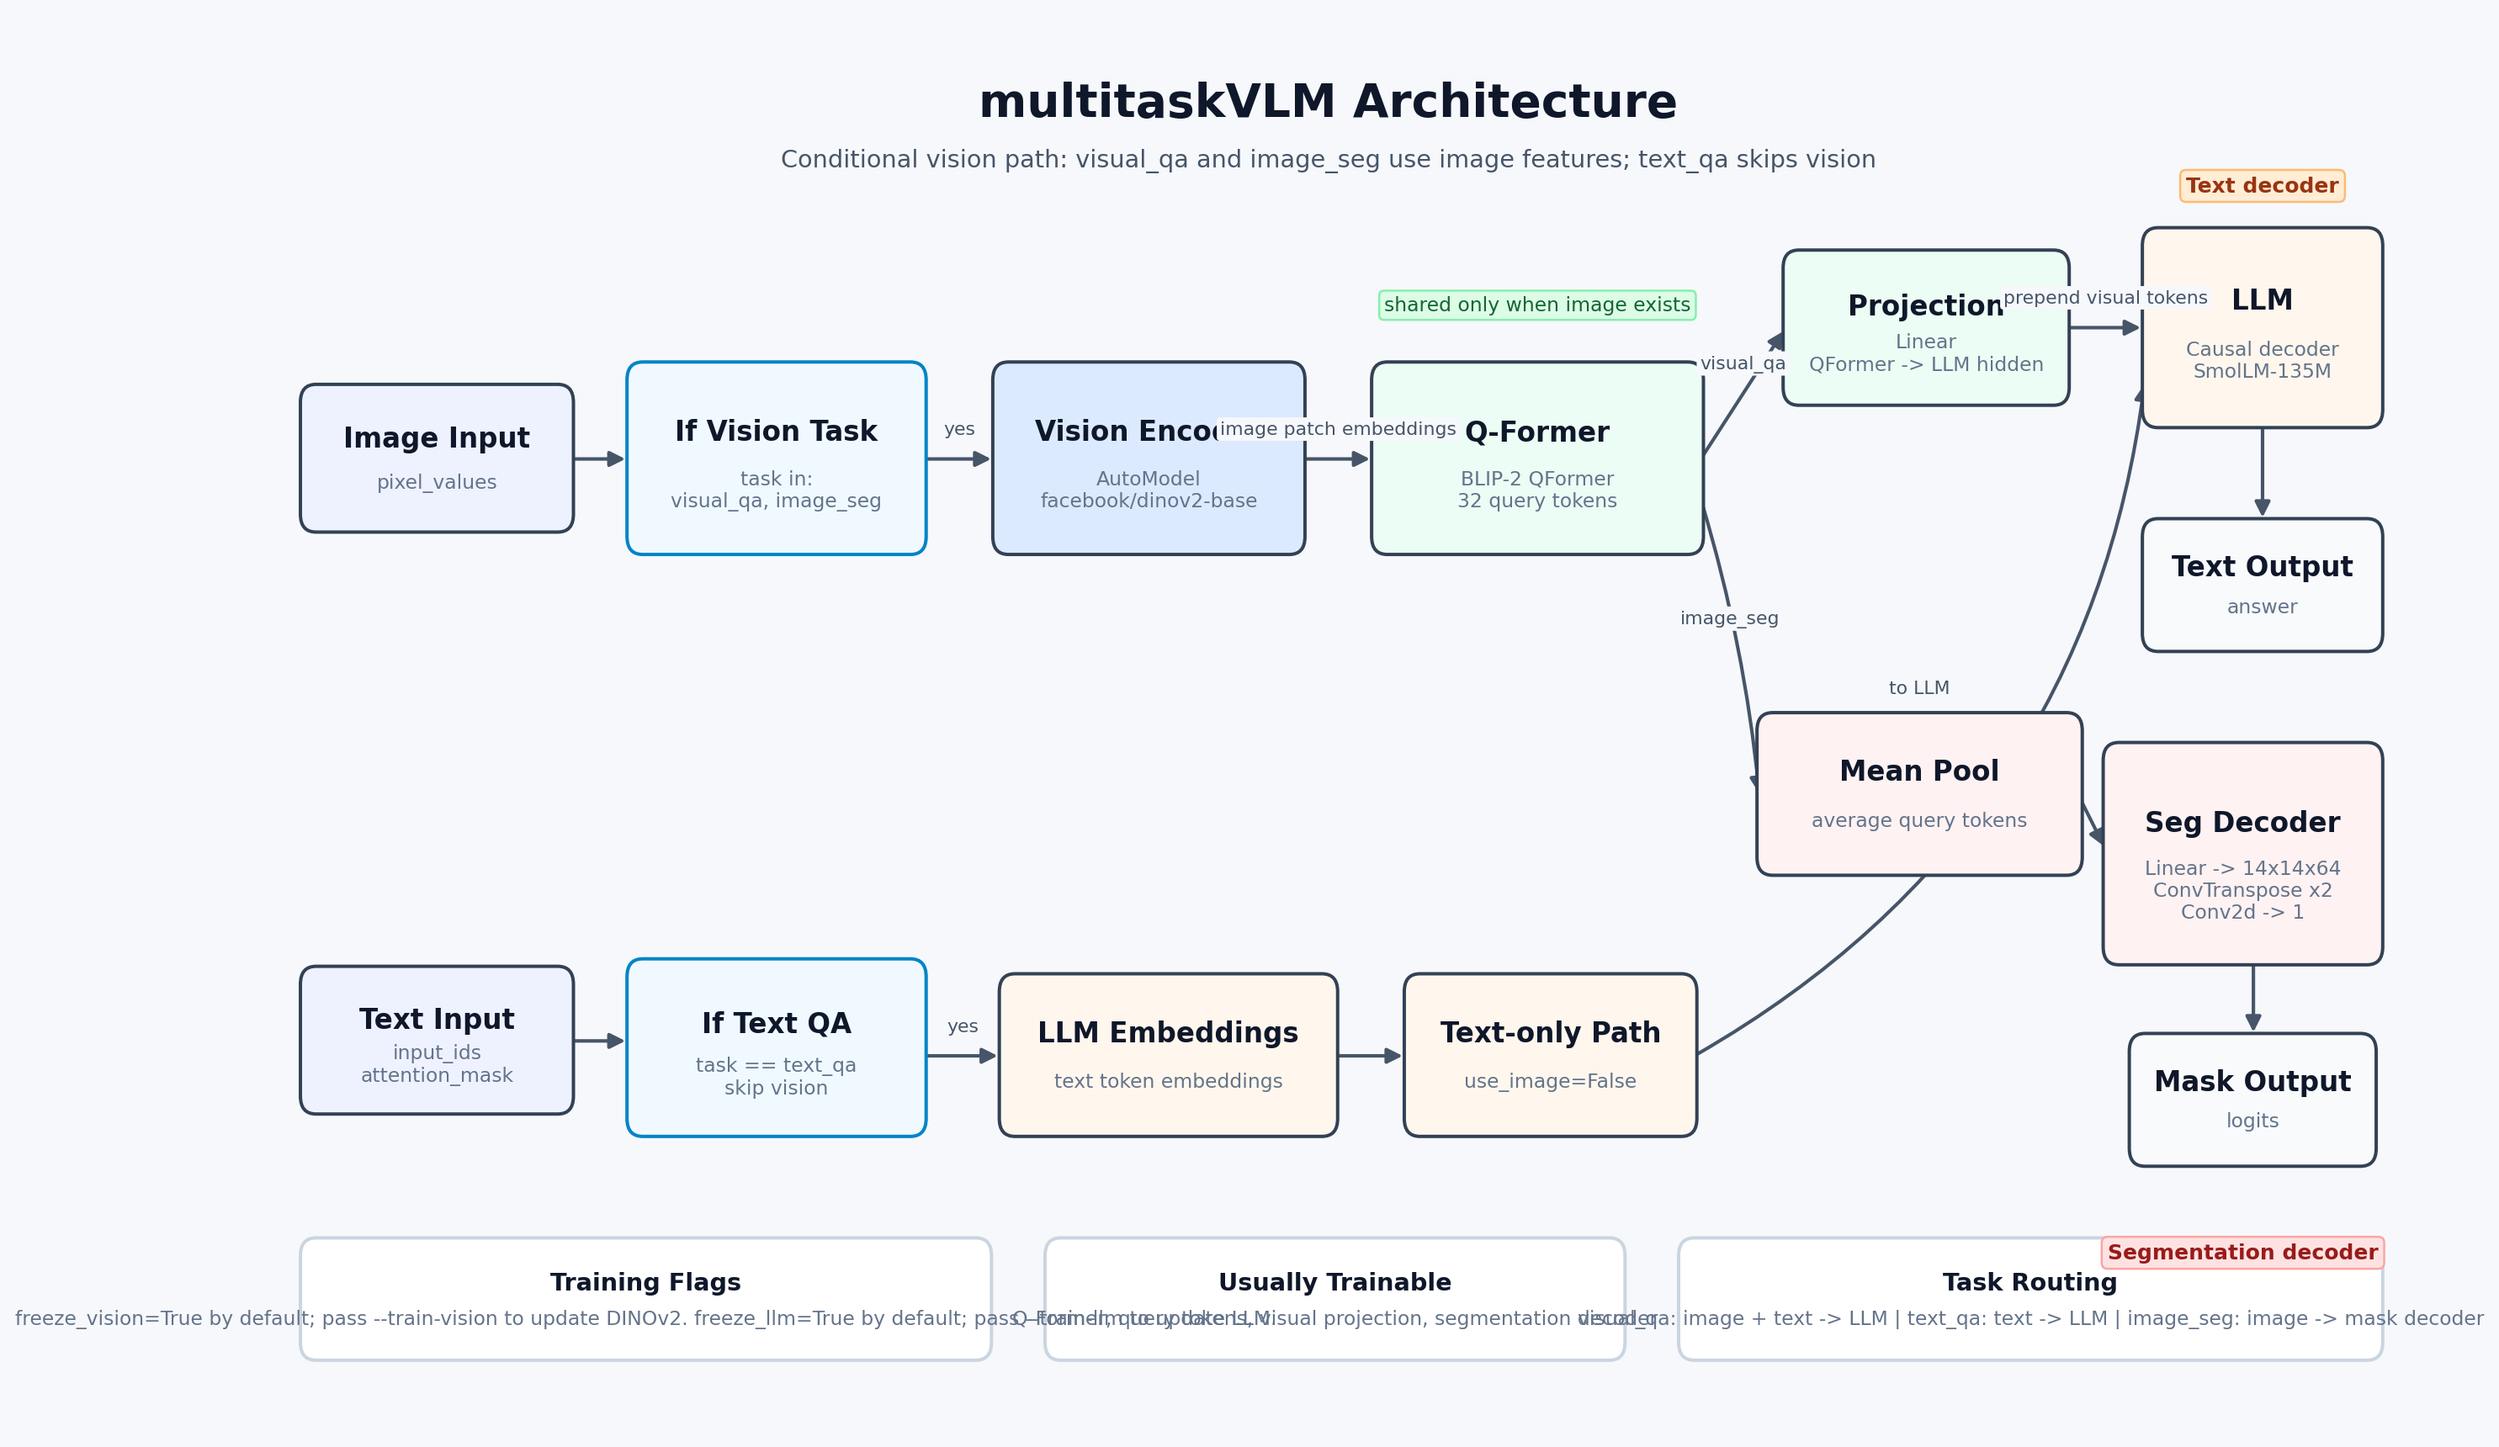
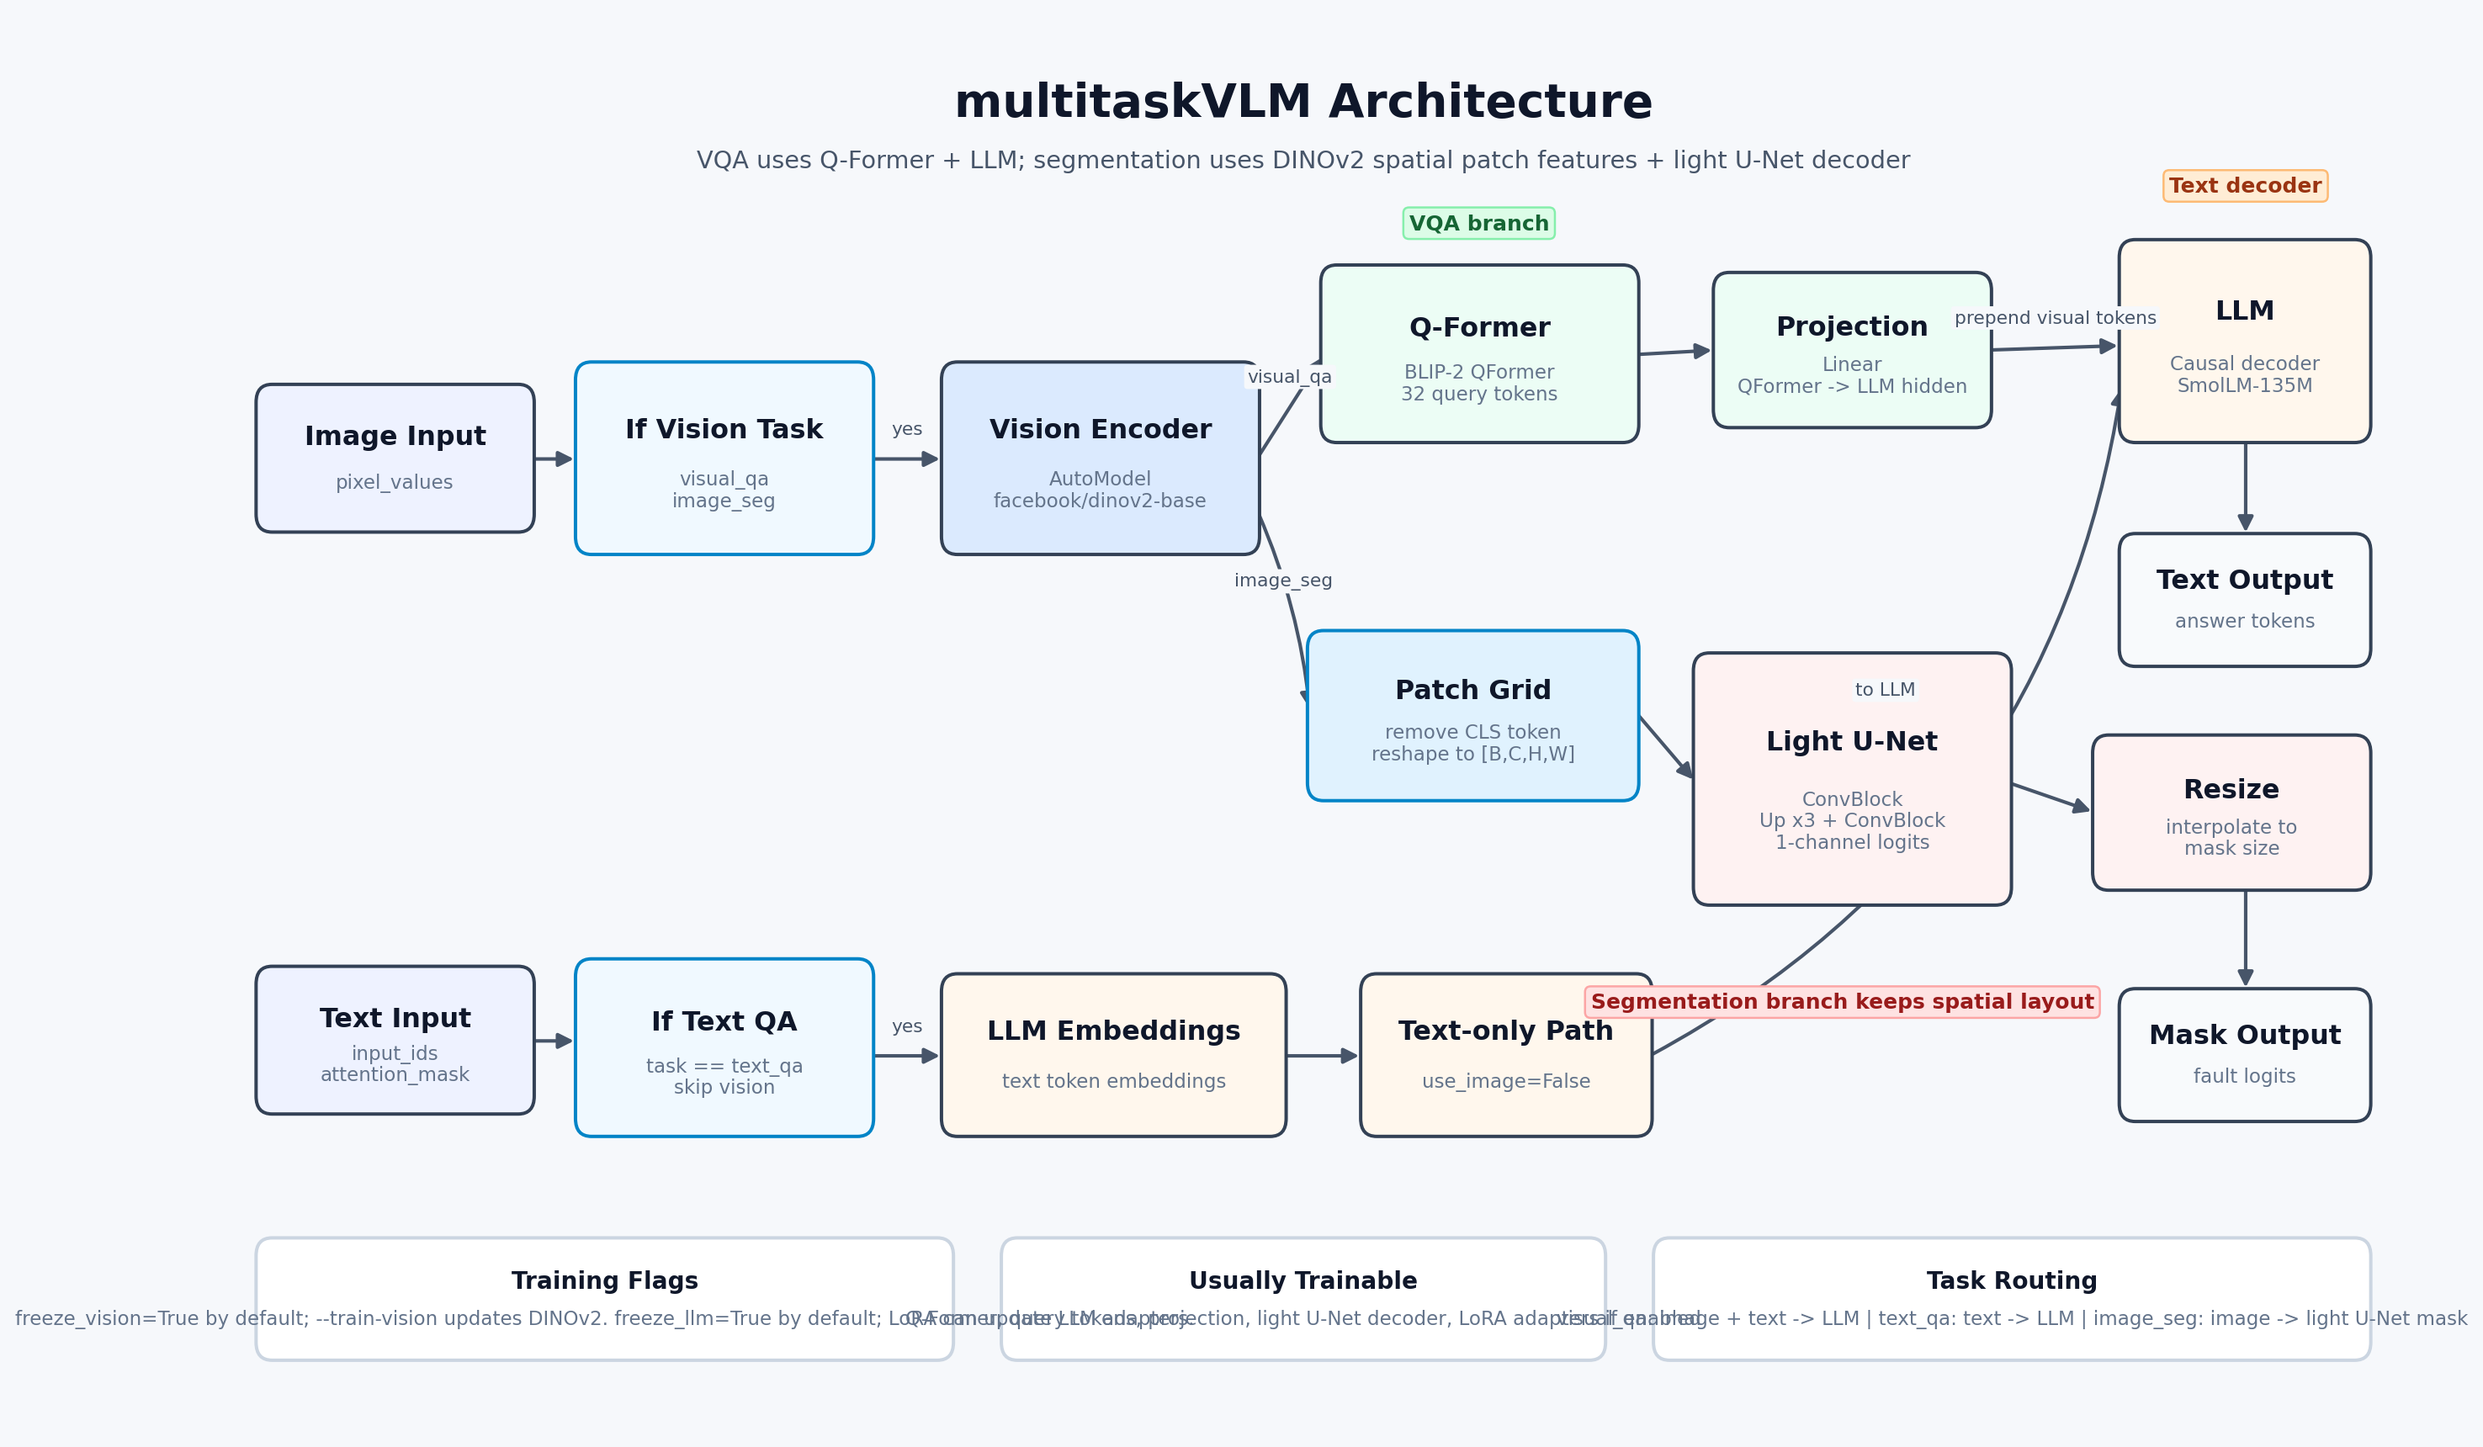
change architecture to unet decoder and set infer's template

diff --git a/code/vlm.py b/code/vlm.py
@@ -15,6 +15,42 @@ SEGMENTATION_TASKS = {"image_seg"}
 SUPPORTED_TASKS = TEXT_TASKS | SEGMENTATION_TASKS
 
 
+class ConvBlock(nn.Module):
+    def __init__(self, in_channels, out_channels):
+        super().__init__()
+        self.block = nn.Sequential(
+            nn.Conv2d(in_channels, out_channels, kernel_size=3, padding=1),
+            nn.GroupNorm(8, out_channels),
+            nn.GELU(),
+            nn.Conv2d(out_channels, out_channels, kernel_size=3, padding=1),
+            nn.GroupNorm(8, out_channels),
+            nn.GELU(),
+        )
+
+    def forward(self, x):
+        return self.block(x)
+
+
+class LightUNetDecoder(nn.Module):
+    def __init__(self, in_channels, base_channels=128):
+        super().__init__()
+        self.input_block = ConvBlock(in_channels, base_channels)
+        self.up1 = nn.ConvTranspose2d(base_channels, base_channels // 2, kernel_size=2, stride=2)
+        self.block1 = ConvBlock(base_channels // 2, base_channels // 2)
+        self.up2 = nn.ConvTranspose2d(base_channels // 2, base_channels // 4, kernel_size=2, stride=2)
+        self.block2 = ConvBlock(base_channels // 4, base_channels // 4)
+        self.up3 = nn.ConvTranspose2d(base_channels // 4, base_channels // 8, kernel_size=2, stride=2)
+        self.block3 = ConvBlock(base_channels // 8, base_channels // 8)
+        self.out_conv = nn.Conv2d(base_channels // 8, 1, kernel_size=1)
+
+    def forward(self, x):
+        x = self.input_block(x)
+        x = self.block1(self.up1(x))
+        x = self.block2(self.up2(x))
+        x = self.block3(self.up3(x))
+        return self.out_conv(x)
+
+
 class multitaskVLM(nn.Module):
     def __init__(
         self,
@@ -83,16 +119,7 @@ class multitaskVLM(nn.Module):
         nn.init.normal_(self.query_tokens, std=0.02)
 
         self.visual_projection = nn.Linear(qformer_hidden_size, llm_hidden)
-        self.segmentation_decoder = nn.Sequential(
-            nn.Linear(qformer_hidden_size, 14 * 14 * 64),
-            nn.GELU(),
-            nn.Unflatten(1, (64, 14, 14)),
-            nn.ConvTranspose2d(64, 32, kernel_size=4, stride=2, padding=1),
-            nn.GELU(),
-            nn.ConvTranspose2d(32, 16, kernel_size=4, stride=2, padding=1),
-            nn.GELU(),
-            nn.Conv2d(16, 1, kernel_size=3, padding=1),
-        )
+        self.segmentation_decoder = LightUNetDecoder(vision_hidden)
 
         if freeze_vision:
             for parameter in self.vision_encoder.parameters():
@@ -169,6 +196,26 @@ class multitaskVLM(nn.Module):
             visual_embeds = visual_embeds.to(dtype=dtype)
         return visual_embeds
 
+    def _vision_feature_map(self, pixel_values):
+        if pixel_values is None:
+            raise ValueError("pixel_values is required for image_seg")
+
+        vision_outputs = self.vision_encoder(pixel_values=pixel_values)
+        tokens = vision_outputs.last_hidden_state
+        patch_tokens = tokens[:, 1:, :]
+
+        num_patches = patch_tokens.shape[1]
+        grid_size = int(num_patches ** 0.5)
+        if grid_size * grid_size != num_patches:
+            raise ValueError(f"Cannot reshape {num_patches} vision patches to a square grid")
+
+        return patch_tokens.transpose(1, 2).reshape(
+            patch_tokens.shape[0],
+            patch_tokens.shape[2],
+            grid_size,
+            grid_size,
+        )
+
     def forward_text(
         self,
         input_ids,
@@ -207,9 +254,8 @@ class multitaskVLM(nn.Module):
         )
 
     def forward_segmentation(self, pixel_values, masks=None, output_size=None):
-        query_output = self._qformer_output(pixel_values)
-        pooled_query = query_output.mean(dim=1)
-        logits = self.segmentation_decoder(pooled_query)
+        feature_map = self._vision_feature_map(pixel_values)
+        logits = self.segmentation_decoder(feature_map)
 
         if output_size is not None:
             logits = F.interpolate(logits, size=output_size, mode="bilinear", align_corners=False)

diff --git a/code/infer_vlm.py b/code/infer_vlm.py
@@ -20,8 +20,22 @@ def load_model(checkpoint_path, device):
     return model
 
 
+def build_text_prompt(args):
+    if args.task == "visual_qa":
+        return f"Task: visual_qa\nQuestion: {args.prompt}\nAnswer:"
+    if args.task == "text_qa":
+        return (
+            "Task: text_qa\n"
+            f"Context: {args.context}\n"
+            f"Additional context: {args.context_2}\n"
+            f"Question: {args.prompt}\n"
+            "Answer:"
+        )
+    raise ValueError(f"Unsupported text task: {args.task}")
+
+
 def infer_text(model, image_processor, args, device):
-    prompt = model.format_prompt(args.prompt, task=args.task)
+    prompt = build_text_prompt(args)
     tokens = model.tokenizer(prompt, return_tensors="pt").to(device)
 
     pixel_values = None
@@ -69,6 +83,8 @@ def parse_args():
     parser.add_argument("--checkpoint", required=True)
     parser.add_argument("--task", required=True, choices=["visual_qa", "text_qa", "image_seg"])
     parser.add_argument("--prompt", default="")
+    parser.add_argument("--context", default="")
+    parser.add_argument("--context-2", default="")
     parser.add_argument("--image", default=None)
     parser.add_argument("--output", default="generated_data/predicted_mask.png")
     parser.add_argument("--device", default=None)

diff --git a/code/train_vlm.py b/code/train_vlm.py
@@ -576,7 +576,7 @@ def train(args):
 
 def parse_args():
     parser = argparse.ArgumentParser(description="Train multitask VLM with checkpoint resume.")
-    parser.add_argument("--dataset", default="generated_data/multimodal_qa.jsonl")
+    parser.add_argument("--dataset", default="generated_data/multimodal_qa_200.jsonl")
     parser.add_argument("--output-dir", default="checkpoints")
     parser.add_argument("--resume", default=None)
     parser.add_argument("--vision-name", default="facebook/dinov2-base")
